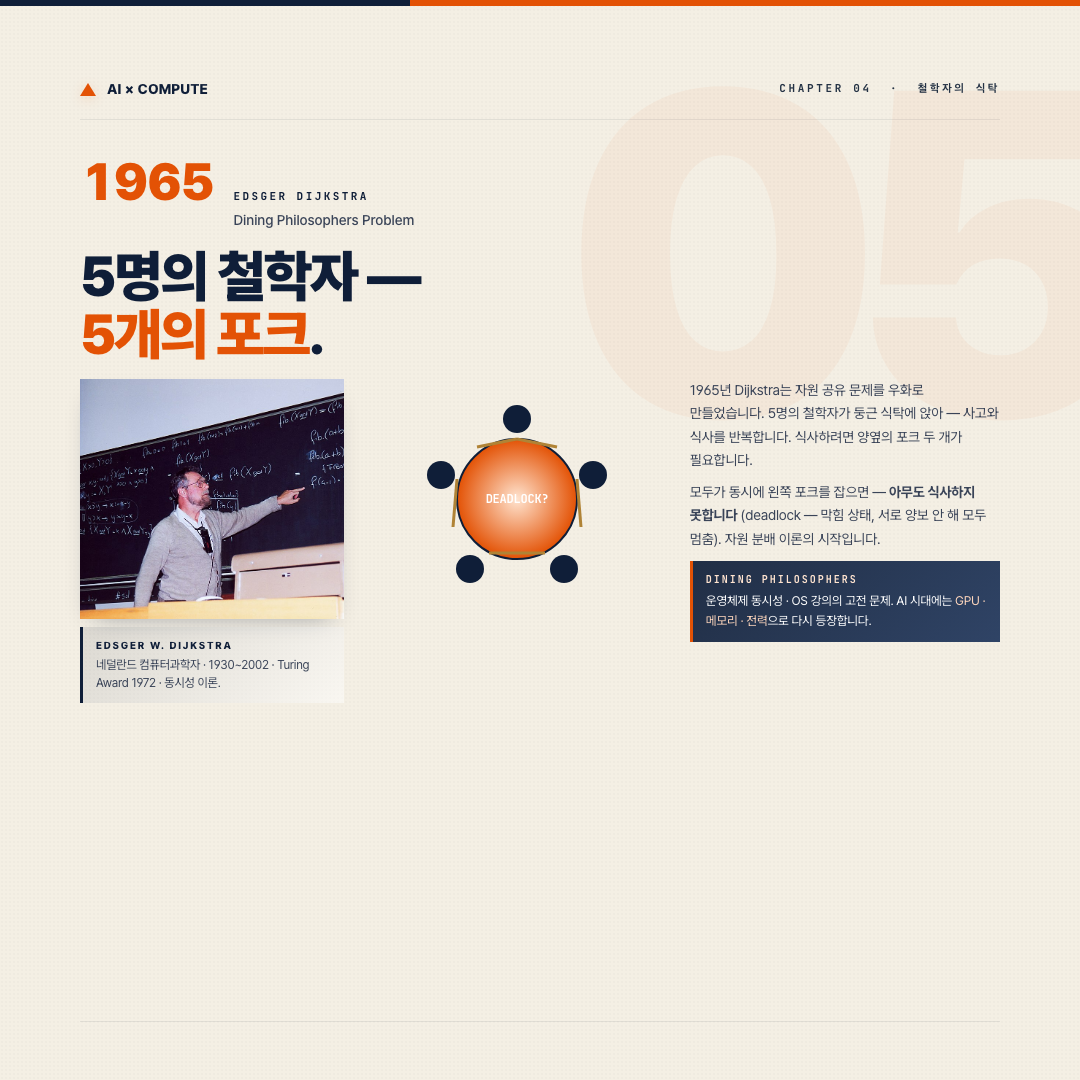
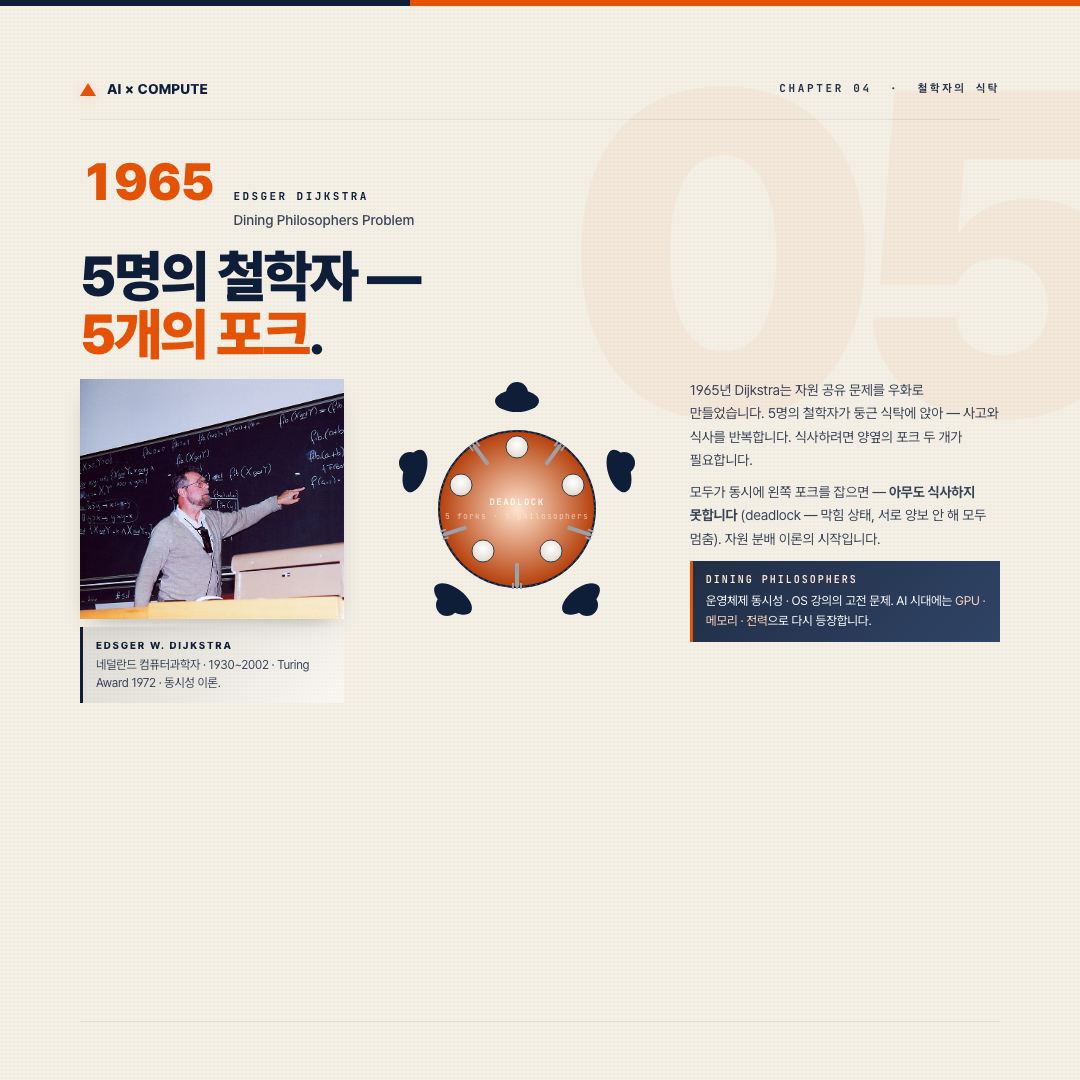
fix(compute 05): 철학자의 식탁 SVG 재설계 — 어색한 선분 → 정돈된 식탁
기존 SVG가 무작위 선분 5개로 포크를 표현해 식탁 같지 않았던 문제 정정.
- 5명 철학자: 어깨+머리 실루엣으로 72° 균등 배치
- 5개 접시: 각 철학자 앞에 흰 접시 (radial gradient)
- 5개 포크: 접시 사이 36°/108°/180°/252°/324° 위치, 회전 변환으로 식탁을 향함, 손잡이+세 갈래 살(prong) 표현
- 식탁: navy 테두리 + radial brand-cream 그라디언트 + 점선 안쪽 림
- 중앙 'DEADLOCK · 5 forks · 5 philosophers' 라벨

Changed region(s): [[0.3667, 0.3361, 0.6111, 0.5806]]

diff --git a/35-cards-compute/05-dijkstra.html b/35-cards-compute/05-dijkstra.html
@@ -28,27 +28,85 @@
       </div>
 
       <div style="display:flex; align-items:center; justify-content:center;">
-        <svg viewBox="0 0 240 240" style="width:100%; max-width:240px;">
+        <svg viewBox="0 0 260 260" style="width:100%; max-width:260px;">
           <defs>
-            <radialGradient id="tbl" cx="50%" cy="50%">
+            <radialGradient id="tbl" cx="50%" cy="50%" r="50%">
               <stop offset="0%" stop-color="#FFE4D0"/>
-              <stop offset="100%" stop-color="#E35205"/>
+              <stop offset="100%" stop-color="#B5400B"/>
+            </radialGradient>
+            <radialGradient id="plate" cx="50%" cy="40%" r="60%">
+              <stop offset="0%" stop-color="#fff"/>
+              <stop offset="100%" stop-color="#E0DACE"/>
             </radialGradient>
           </defs>
-          <circle cx="120" cy="120" r="60" fill="url(#tbl)" stroke="#0f1e38" stroke-width="2"/>
-          <!-- 5 philosophers -->
-          <circle cx="120" cy="40"  r="14" fill="#0f1e38"/>
-          <circle cx="196" cy="96"  r="14" fill="#0f1e38"/>
-          <circle cx="167" cy="190" r="14" fill="#0f1e38"/>
-          <circle cx="73"  cy="190" r="14" fill="#0f1e38"/>
-          <circle cx="44"  cy="96"  r="14" fill="#0f1e38"/>
-          <!-- 5 forks (lines from table edge) -->
-          <line x1="120" y1="60" x2="160" y2="68"  stroke="#B08336" stroke-width="3"/>
-          <line x1="180" y1="100" x2="184" y2="148" stroke="#B08336" stroke-width="3"/>
-          <line x1="148" y1="174" x2="92"  y2="174" stroke="#B08336" stroke-width="3"/>
-          <line x1="56"  y1="148" x2="60"  y2="100" stroke="#B08336" stroke-width="3"/>
-          <line x1="80"  y1="68"  x2="120" y2="60"  stroke="#B08336" stroke-width="3"/>
-          <text x="120" y="124" text-anchor="middle" font-family="JetBrains Mono" font-size="12" font-weight="700" fill="#fff">DEADLOCK?</text>
+          <!-- 식탁 (둥근 나무) -->
+          <circle cx="130" cy="130" r="78" fill="url(#tbl)" stroke="#0f1e38" stroke-width="2"/>
+          <circle cx="130" cy="130" r="78" fill="none" stroke="rgba(255,255,255,0.25)" stroke-width="1" stroke-dasharray="2 4"/>
+
+          <!-- 5명의 철학자 (어깨+머리) — 72° 간격 -->
+          <!-- p1 top -->
+          <ellipse cx="130" cy="22" rx="22" ry="11" fill="#0f1e38"/>
+          <circle cx="130" cy="14" r="11" fill="#0f1e38"/>
+          <!-- p2 right-top -->
+          <ellipse cx="232" cy="92" rx="22" ry="11" transform="rotate(72 232 92)" fill="#0f1e38"/>
+          <circle cx="237" cy="84" r="11" fill="#0f1e38"/>
+          <!-- p3 right-bottom -->
+          <ellipse cx="194" cy="220" rx="22" ry="11" transform="rotate(144 194 220)" fill="#0f1e38"/>
+          <circle cx="200" cy="226" r="11" fill="#0f1e38"/>
+          <!-- p4 left-bottom -->
+          <ellipse cx="66" cy="220" rx="22" ry="11" transform="rotate(216 66 220)" fill="#0f1e38"/>
+          <circle cx="60" cy="226" r="11" fill="#0f1e38"/>
+          <!-- p5 left-top -->
+          <ellipse cx="28" cy="92" rx="22" ry="11" transform="rotate(288 28 92)" fill="#0f1e38"/>
+          <circle cx="23" cy="84" r="11" fill="#0f1e38"/>
+
+          <!-- 5개의 접시 (각 철학자 앞) — 더 안쪽 r=58 -->
+          <circle cx="130" cy="68" r="11" fill="url(#plate)" stroke="#0f1e38" stroke-width="0.8"/>
+          <circle cx="186" cy="106" r="11" fill="url(#plate)" stroke="#0f1e38" stroke-width="0.8"/>
+          <circle cx="164" cy="172" r="11" fill="url(#plate)" stroke="#0f1e38" stroke-width="0.8"/>
+          <circle cx="96" cy="172" r="11" fill="url(#plate)" stroke="#0f1e38" stroke-width="0.8"/>
+          <circle cx="74" cy="106" r="11" fill="url(#plate)" stroke="#0f1e38" stroke-width="0.8"/>
+
+          <!-- 5개의 포크 — 접시 사이에 (36° offset, r=64) -->
+          <!-- f1 between p1·p2 -->
+          <g transform="translate(166 76) rotate(36)">
+            <rect x="-2" y="-12" width="4" height="24" fill="#9CA0A8" rx="1"/>
+            <rect x="-5" y="-14" width="2" height="6" fill="#9CA0A8"/>
+            <rect x="-1" y="-14" width="2" height="6" fill="#9CA0A8"/>
+            <rect x="3"  y="-14" width="2" height="6" fill="#9CA0A8"/>
+          </g>
+          <!-- f2 between p2·p3 -->
+          <g transform="translate(192 152) rotate(108)">
+            <rect x="-2" y="-12" width="4" height="24" fill="#9CA0A8" rx="1"/>
+            <rect x="-5" y="-14" width="2" height="6" fill="#9CA0A8"/>
+            <rect x="-1" y="-14" width="2" height="6" fill="#9CA0A8"/>
+            <rect x="3"  y="-14" width="2" height="6" fill="#9CA0A8"/>
+          </g>
+          <!-- f3 between p3·p4 (bottom) -->
+          <g transform="translate(130 196) rotate(180)">
+            <rect x="-2" y="-12" width="4" height="24" fill="#9CA0A8" rx="1"/>
+            <rect x="-5" y="-14" width="2" height="6" fill="#9CA0A8"/>
+            <rect x="-1" y="-14" width="2" height="6" fill="#9CA0A8"/>
+            <rect x="3"  y="-14" width="2" height="6" fill="#9CA0A8"/>
+          </g>
+          <!-- f4 between p4·p5 -->
+          <g transform="translate(68 152) rotate(252)">
+            <rect x="-2" y="-12" width="4" height="24" fill="#9CA0A8" rx="1"/>
+            <rect x="-5" y="-14" width="2" height="6" fill="#9CA0A8"/>
+            <rect x="-1" y="-14" width="2" height="6" fill="#9CA0A8"/>
+            <rect x="3"  y="-14" width="2" height="6" fill="#9CA0A8"/>
+          </g>
+          <!-- f5 between p5·p1 -->
+          <g transform="translate(94 76) rotate(324)">
+            <rect x="-2" y="-12" width="4" height="24" fill="#9CA0A8" rx="1"/>
+            <rect x="-5" y="-14" width="2" height="6" fill="#9CA0A8"/>
+            <rect x="-1" y="-14" width="2" height="6" fill="#9CA0A8"/>
+            <rect x="3"  y="-14" width="2" height="6" fill="#9CA0A8"/>
+          </g>
+
+          <!-- 중앙 라벨 -->
+          <text x="130" y="126" text-anchor="middle" font-family="JetBrains Mono, monospace" font-size="9" letter-spacing="1.5" font-weight="800" fill="#fff" opacity="0.85">DEADLOCK</text>
+          <text x="130" y="140" text-anchor="middle" font-family="JetBrains Mono, monospace" font-size="8" letter-spacing="1.2" fill="#FFE4D0" opacity="0.75">5 forks · 5 philosophers</text>
         </svg>
       </div>
 
